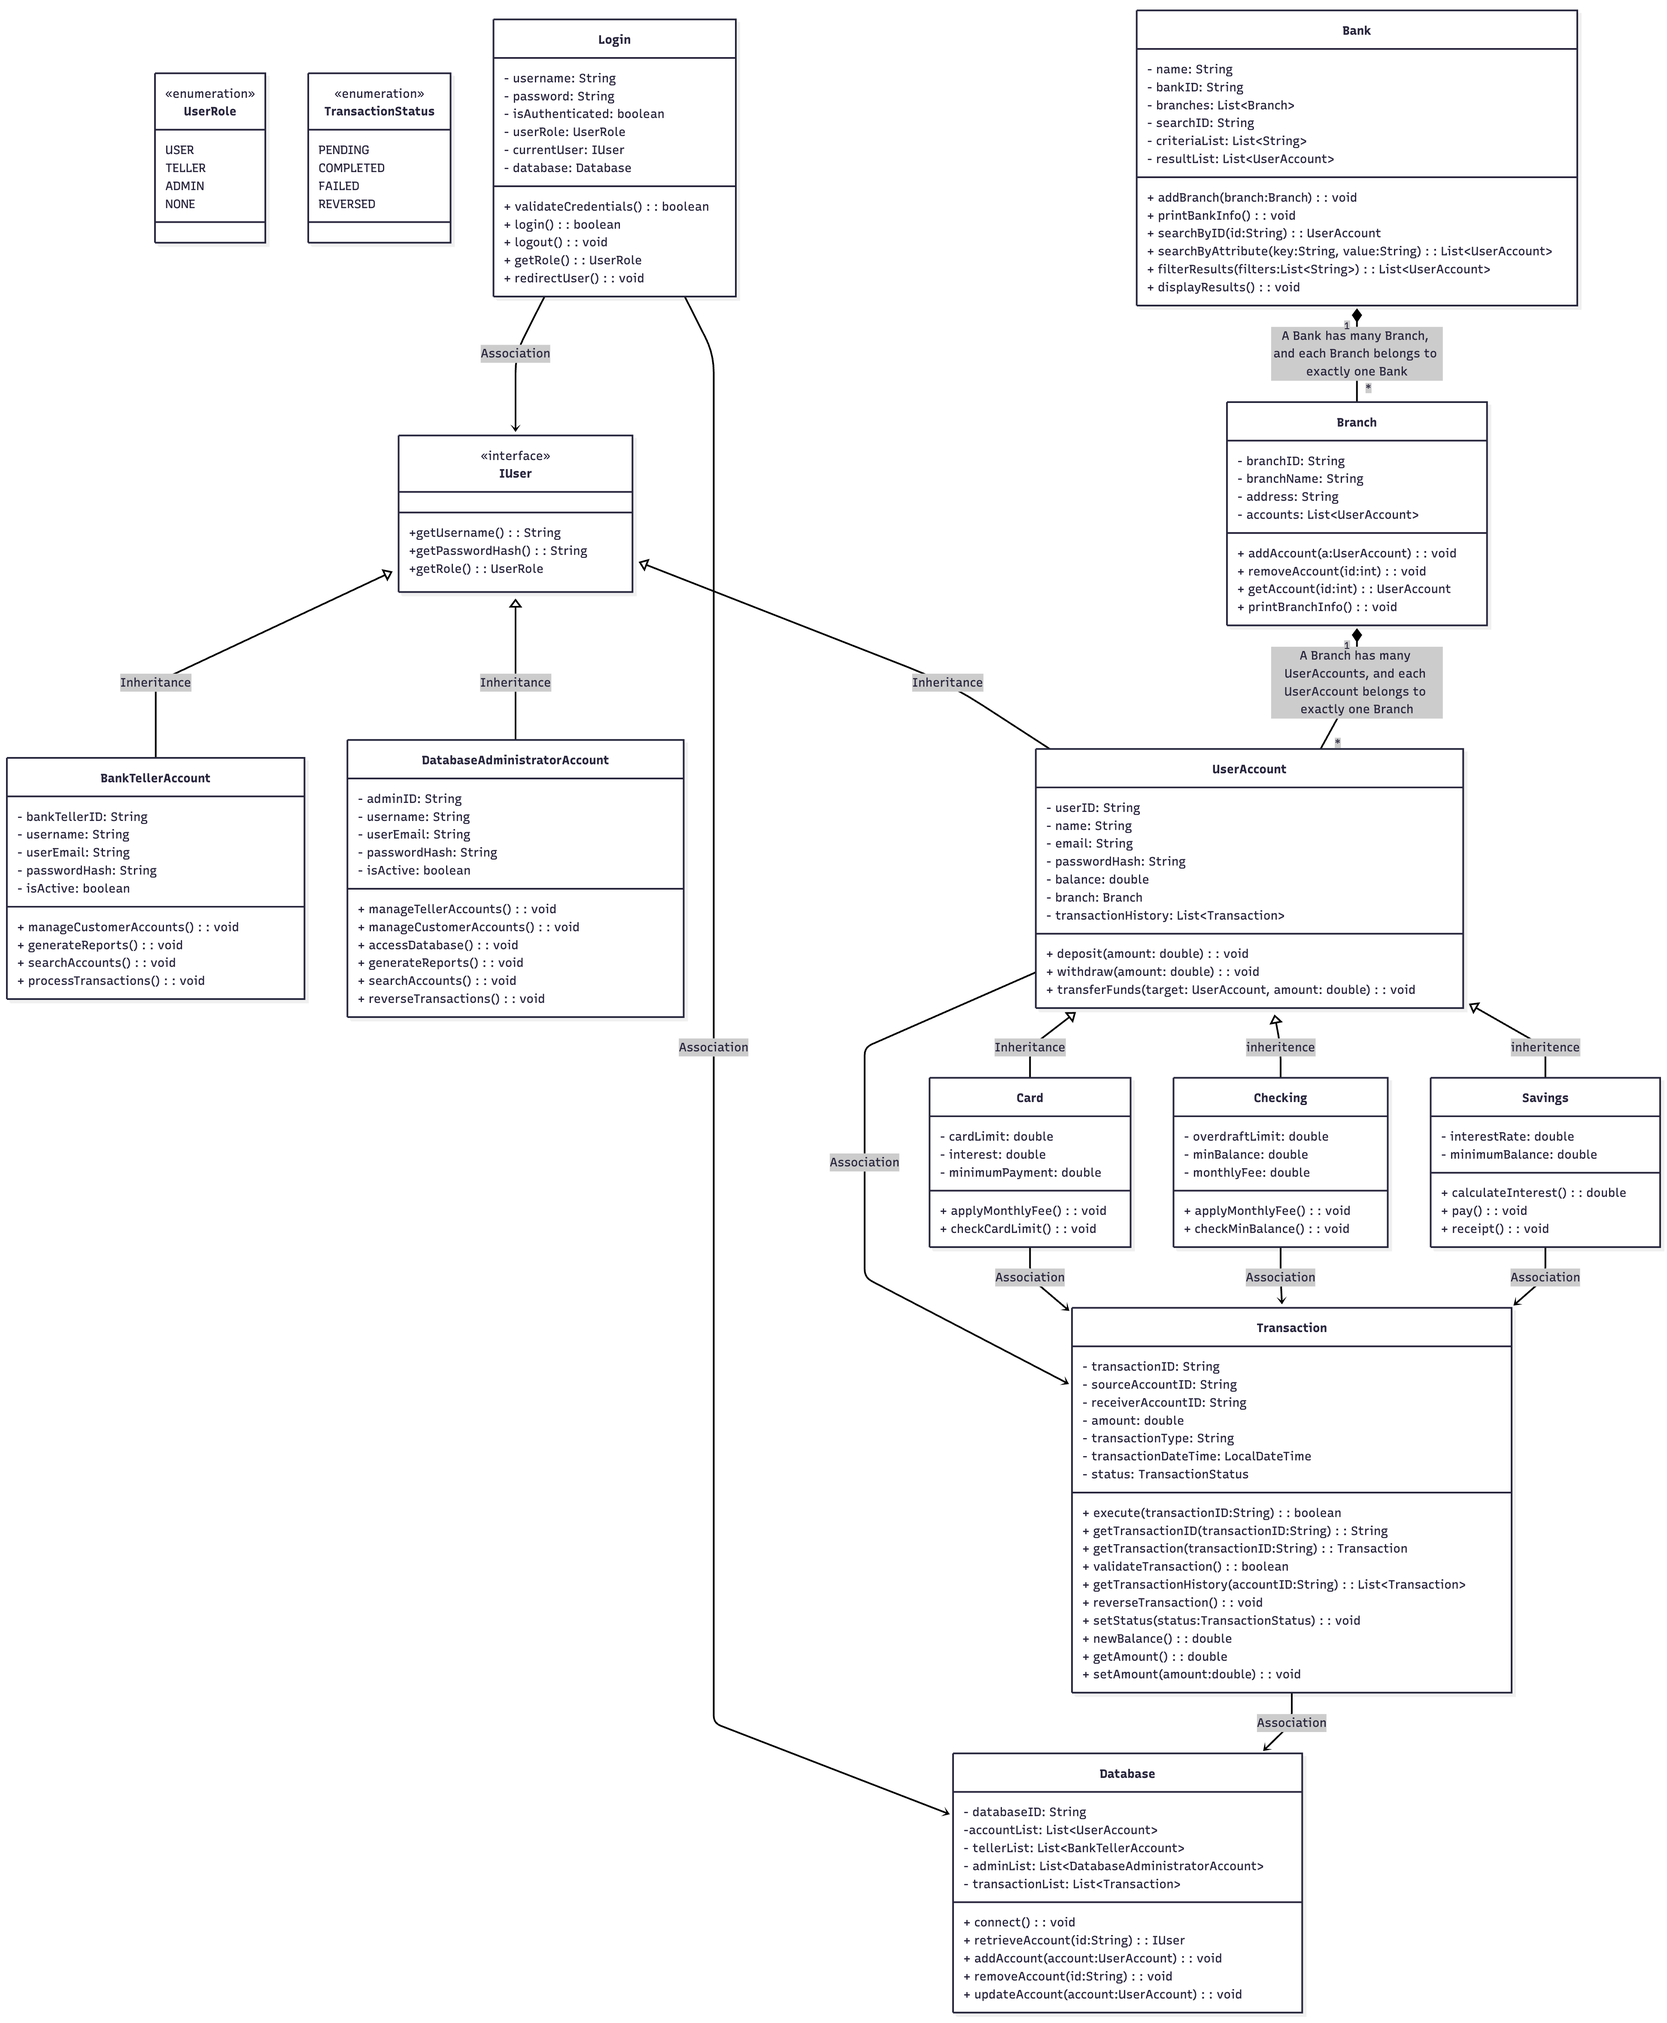
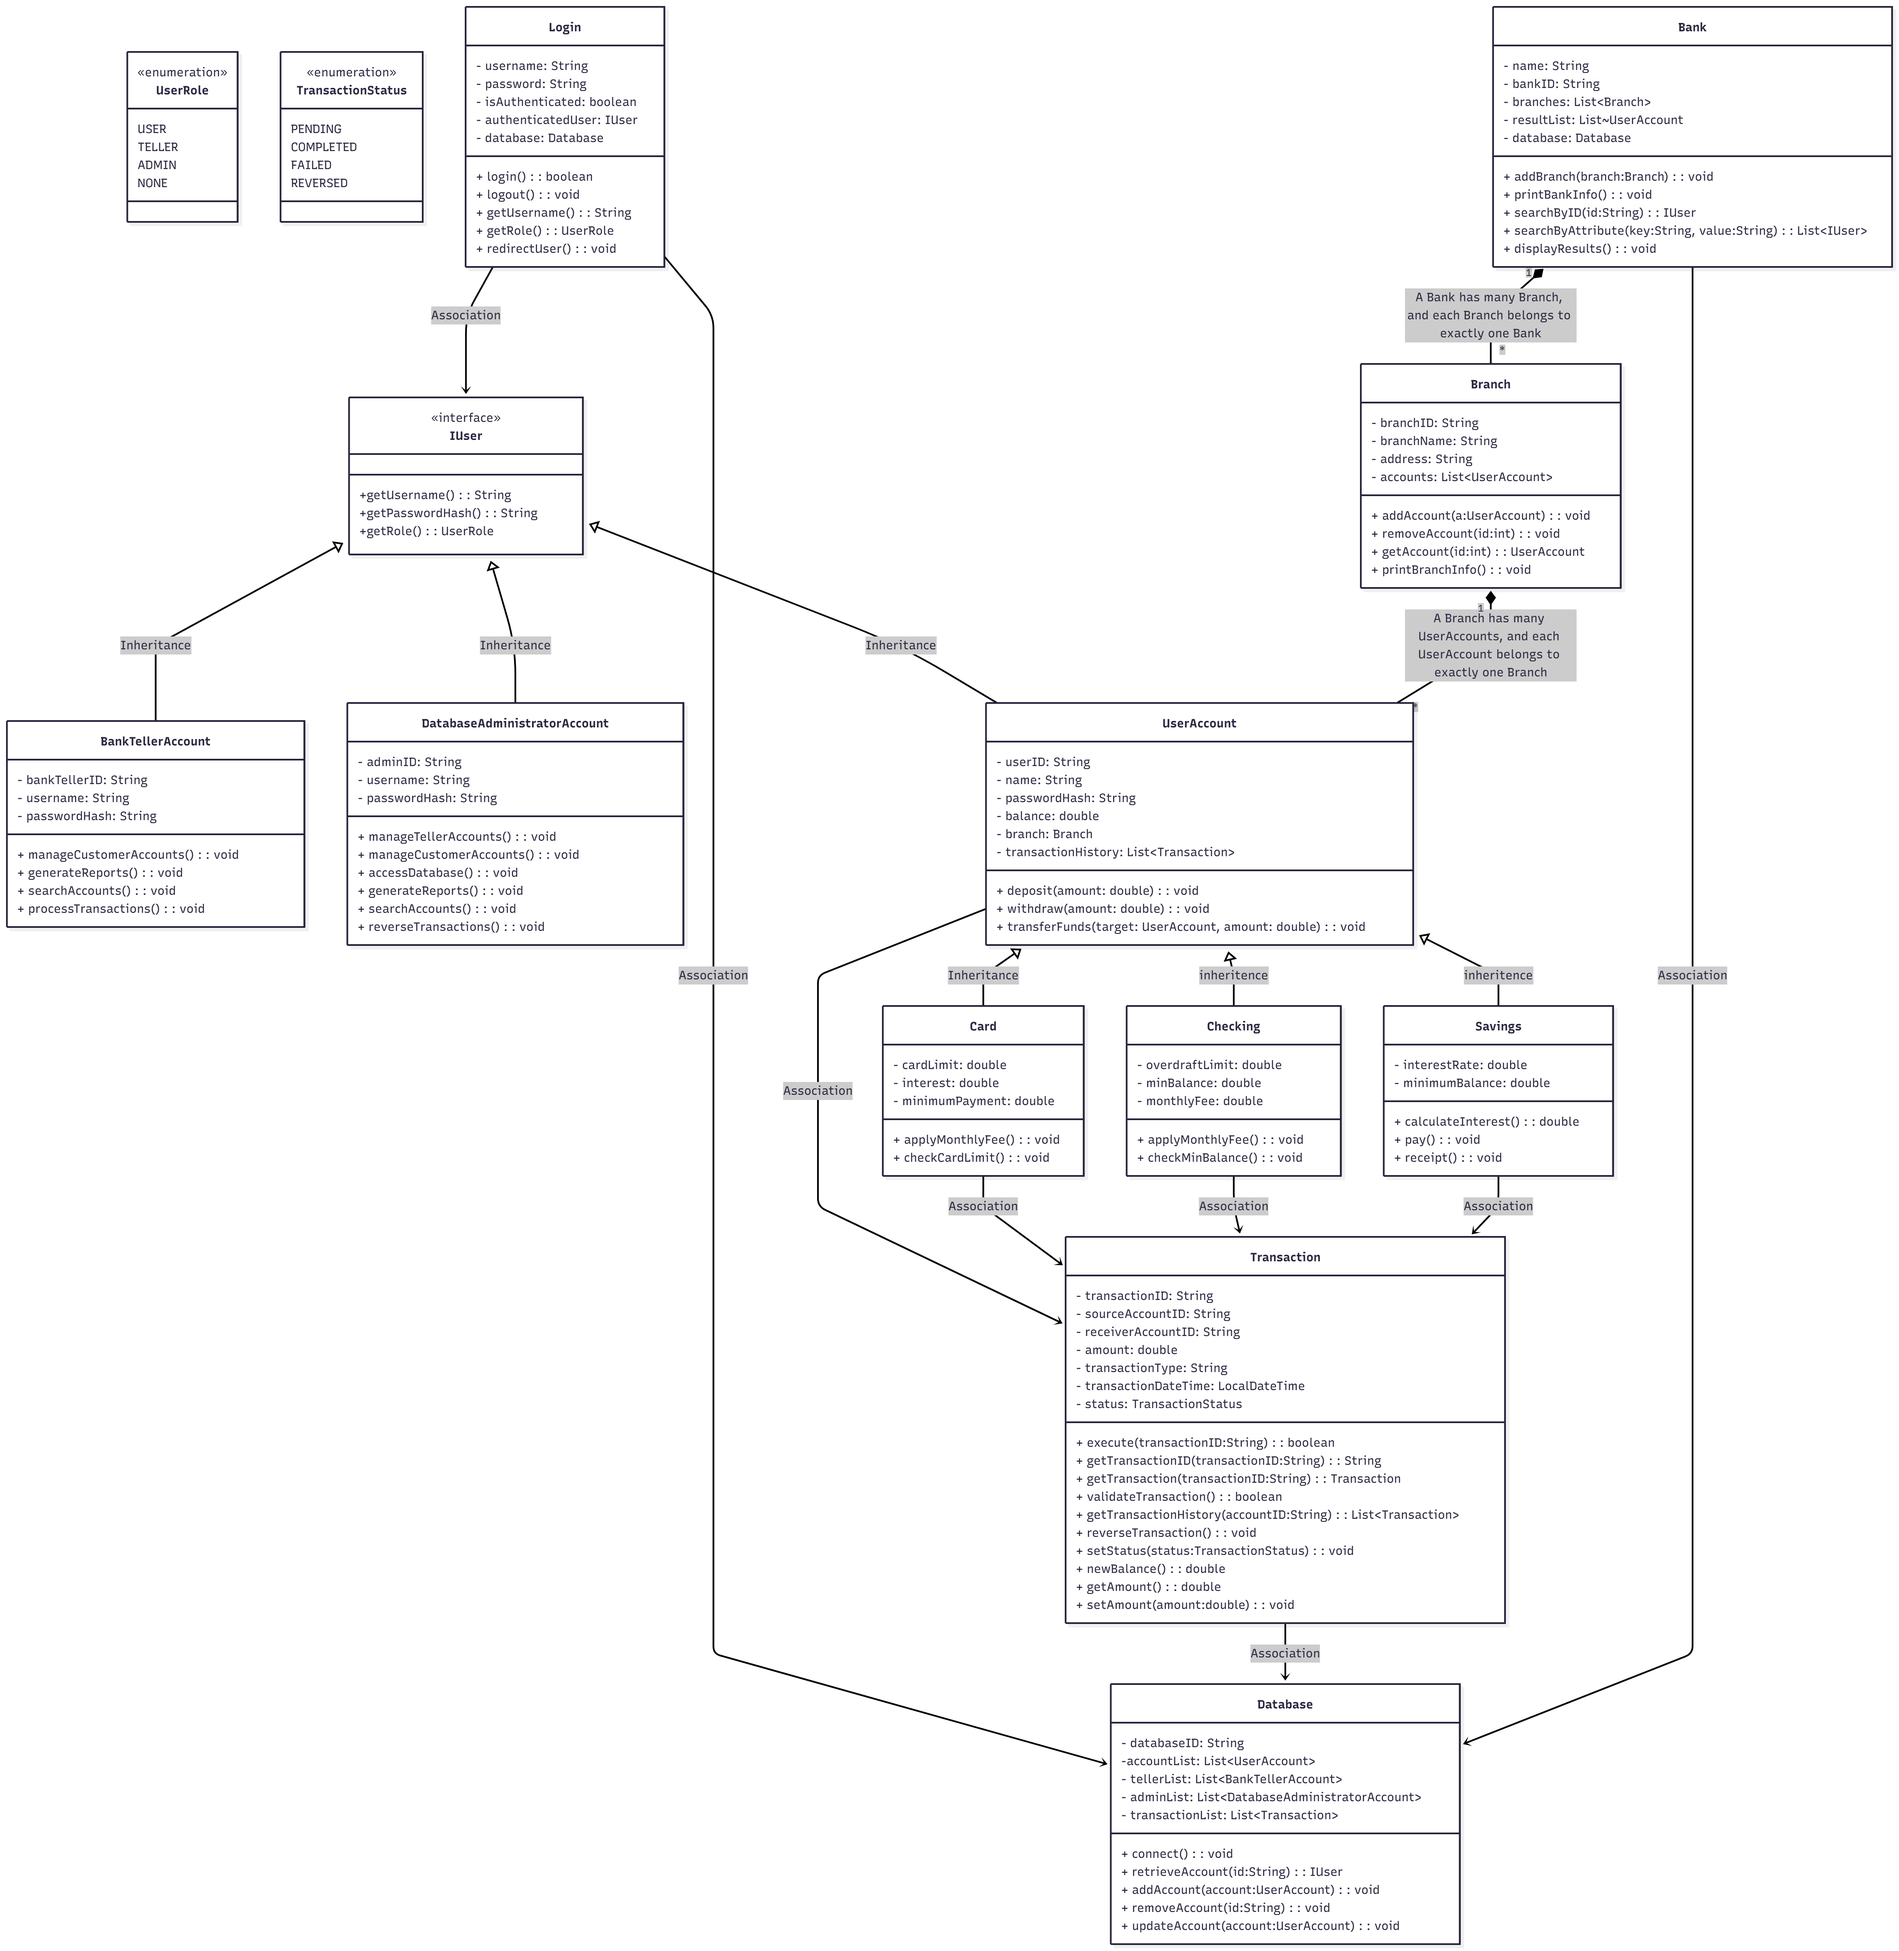
Implemented UserAccount (needs transaction object) and Login ( needs correct database integration)

diff --git a/src/main/java/domain/users/UserAccount.java b/src/main/java/domain/users/UserAccount.java
@@ -1,15 +1,97 @@
 package domain.users;
 
-public class UserAccount {
-    private String userID;
-    
+import domain.bank.Branch;
+import domain.enums.UserRole;
+import domain.transactions.Transaction;
 
-    public UserAccount(String userID) {
+import java.util.ArrayList;
+import java.util.List;
+
+public class UserAccount implements IUser{
+    private String userID;
+    private String name;
+    private String email;
+    private String passwordHash;
+    private double balance;
+    private Branch branch;
+    private List<Transaction> transactionList;
+
+    // ==Constructor==
+    public UserAccount(String userID, String name, String email, String passwordHash, double balance, Branch branch) {
         this.userID = userID;
+        this.name = name;
+        this.email = email;
+        this.passwordHash = passwordHash;
+        this.balance = balance;
+        this.branch = branch;
+        this.transactionList = new ArrayList<>();
     }
 
+    @Override
+    public String getUsername() {
+        return this.email;
+    }
+
+    @Override
+    public String getPasswordHash() {
+        return this.passwordHash;
+    }
+
+    @Override
+    public UserRole getRole() {
+        return UserRole.USER;
+    }
     public String getUserID() {
         return userID;
     }
-    
+
+    public void deposit(double amount) {
+        if (amount <= 0) {
+            System.out.println("Amount must be positive");
+            return;
+        }
+        this.balance += amount;
+
+        // TODO:Add transaction object
+    }
+
+    public void withdraw(double amount) {
+        if (amount <= 0) {
+            System.out.println("Amount must be positive");
+            return;
+        }
+
+        if (amount > this.balance) {
+            System.out.println("Insufficient balance");
+            return;
+        }
+
+        this.balance -= amount;
+
+        // TODO:Add transaction object
+    }
+
+    public void transferFunds(UserAccount target, double amount) {
+        if (target == null) {
+            System.out.println("Target account cannot be null");
+            return;
+        }
+
+        if (amount <= 0) {
+            System.out.println("Amount must be positive");
+            return;
+        }
+
+        if (amount > this.balance) {
+            System.out.println("Insufficient balance for transfer");
+            return;
+        }
+
+        this.withdraw(amount);
+
+        target.deposit(amount);
+
+        // TODO:Add transaction object
+    }
+
 }

diff --git a/src/main/java/application/Login.java b/src/main/java/application/Login.java
@@ -1,5 +1,82 @@
 package application;
 
+import database.Database;
+import domain.enums.UserRole;
+import domain.users.IUser;
+
 public class Login {
-    // TODO: implement login functionality
+    private String username;
+    private String password;
+    private boolean isAuthenticated;
+    private IUser authenticatedUser;
+    private Database database;
+
+    public Login(Database database) {
+        this.database = database;
+        this.isAuthenticated = false;
+        this.authenticatedUser = null;
+    }
+
+    // Attempts to login user based on credentials, returns true if success or false otherwise.
+    public boolean login(String username, String password) {
+        // storing the credentials locally
+        this.username = username;
+        this.password = password;
+    //fix later
+       /* IUser user =  database.retrieveAccount(username);
+
+        if (user != null && user.getPasswordHash().equals(password)) {
+            this.authenticatedUser = user;
+            this.isAuthenticated = true;
+            return true;
+        } */
+
+        //login failure case
+        this.authenticatedUser = null;
+        this.isAuthenticated = false;
+        return false;
+    }
+
+    public void logout() {
+        this.isAuthenticated = false;
+        this.authenticatedUser = null;
+        this.username = null;
+        this.password = null;
+    }
+
+    public String getUsername() {
+        return this.username;
+    }
+
+    public UserRole getRole() {
+        if (isAuthenticated && authenticatedUser != null) {
+            return authenticatedUser.getRole();
+        }
+
+        return UserRole.NONE;
+    }
+
+    public void redirectUser() {
+        if (!isAuthenticated || authenticatedUser == null) {
+            System.out.println("User not authenticated.");
+            return;
+        }
+
+        UserRole role = authenticatedUser.getRole();
+
+        switch (role) {
+            case USER:
+                System.out.println("Redirecting to User dashboard...");
+                break;
+            case TELLER:
+                System.out.println("Redirecting to Bank Teller dashboard...");
+                break;
+            case ADMIN:
+                System.out.println("Redirecting to Admin dashboard...");
+                break;
+            default:
+                System.out.println("Unknown role. Cannot redirect.");
+        }
+    }
+
 }
